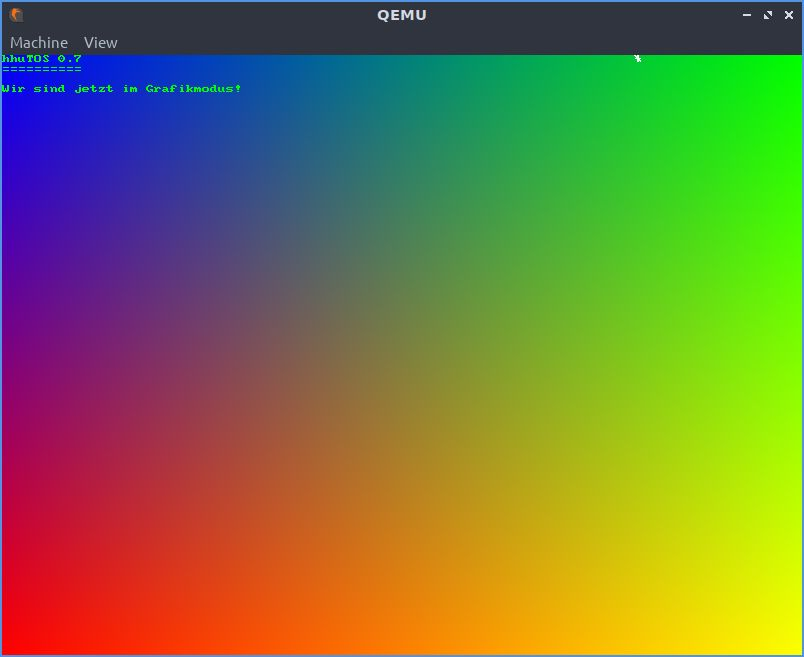
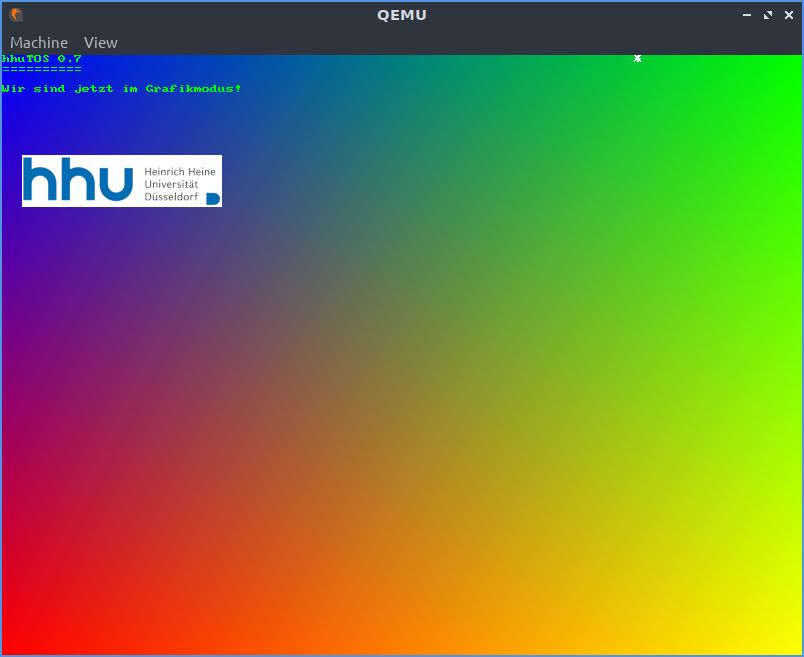
Update Readme

Changed region(s): [[0.0, 0.2131, 0.2799, 0.3349]]

diff --git a/README.md b/README.md
@@ -17,11 +17,11 @@ Die Dateien in der Vorgabe umfassen einige Dateien, um einen Grafikmodus nutzen 
 ### Grafikfunktionen 
 Vorhanden sind nur sehr grundlegende Grafik-Funktionen, inkl. einer Text-Ausgabe mit einer Schriftart. Weitere Funktionen sollen je nach Anwendung ergänzt werden. 
 
-Ob das System im Grafik- oder Textmodus startet wird in `boot/boot.asm`durch die die Konstante `TEXT_MODE` festgelegt. Wenn diese Konstante aukommentiert wird, so schaltet `grub` direkt in den Grafikmodus (800x600 mit 32 Bit pro Pixel). Eine alternative Grafikauflösung kann durch die Konstanten `MULTIBOOT_GRAPHICS_*` in  `boot/boot.asm` eingestellt werden. Mögliche Auflösungen sollten sich an dem VESA-Standard orientieren, siehe hier: https://en.wikipedia.org/wiki/VESA_BIOS_Extensions
+Ob das System im Grafik- oder Textmodus startet wird in `boot/boot.asm`durch die die Konstante `TEXT_MODE` festgelegt. Wenn diese Konstante aukommentiert wird, so schaltet `grub` direkt in den Grafikmodus (800x600 mit 32 Bit pro Pixel). Eine alternative Grafikauflösung kann durch die Konstanten `MULTIBOOT_GRAPHICS_*` in  `boot/boot.asm` eingestellt werden. Mögliche Auflösungen sollten sich an dem VESA-Standard orientieren, siehe hier: [VESA](https://en.wikipedia.org/wiki/VESA_BIOS_Extensions). Es sollte immer ein Modus mit 3 oder 4 Byte pro Pixel als Farbtiefe verwendet werden.
 
 Die Textausgabe über CGA funktioniert nicht im Grafikmodus! Ein Beispiel für die Textausgabe befindet sich in der Vorgabe in `user/aufgabe7/graphic_demo.rs`, siehe auch nachstehendes Bild. 
 Damit das Debugging etwas einfach wird kann man Ausgaben ueber die serielle Schnittstelle nutzen. Dazu gibt es in den Vorgaben die Dateien `devices/serial.rs`und `devices/kprint.rs`. 
-Wenn man diese einbindet und im Makefile qemu mit dem zusaetzlichen Flag `-serial stdio` startet, sieht man die Ausgaben von `kprint` im Terminal, von dem aus qemu aufgerufen wurde.
+Wenn man diese einbindet und im Makefile qemu mit dem zusaetzlichen Flag `-serial stdio` startet, sieht man die Ausgaben von `kprint` im Terminal, von dem aus qemu aufgerufen wurde, siehe Bild unten.
 
 Folgende Dateien sind für die Grafik-Unterstützung in der Vorgabe:
 - `boot/boot.asm`: kleines Update, damit der Zeiger auf die Multibootinfos richtig nach `startup` übergeben werden
@@ -29,7 +29,13 @@ Folgende Dateien sind für die Grafik-Unterstützung in der Vorgabe:
 - `devices/fonts/font_8x8.rs`: Bitmap-Font für die Textausgabe im Grafikmodus
 - `startup.rs`: Auslesen der Framebuffer-Infos, fuer `vga.rs`
 - `user/aufgabe7/graphic_demo.rs`: Kleine Grafikdemo, siehe auch Bild unten
+- `user/aufgabe7/bmp_hhu.rs`: HHU-Logo als Bitmap
+- `cbmp2rs`: kleines C-Programm zum Konvertieren von Bildern, gespeichert von GIMP als C-Source, siehe auch `Fonts.pdf`.
+
 
 **Beispielausgabe der Grafikdemo**
 
 ![GD](https://github.com/hhu-bsinfo/hhuTOSc/blob/aufgabe-7/img/graphic.jpg)
+
+
+![COM](https://github.com/hhu-bsinfo/hhuTOSc/blob/aufgabe-7/img/serial.jpg)
